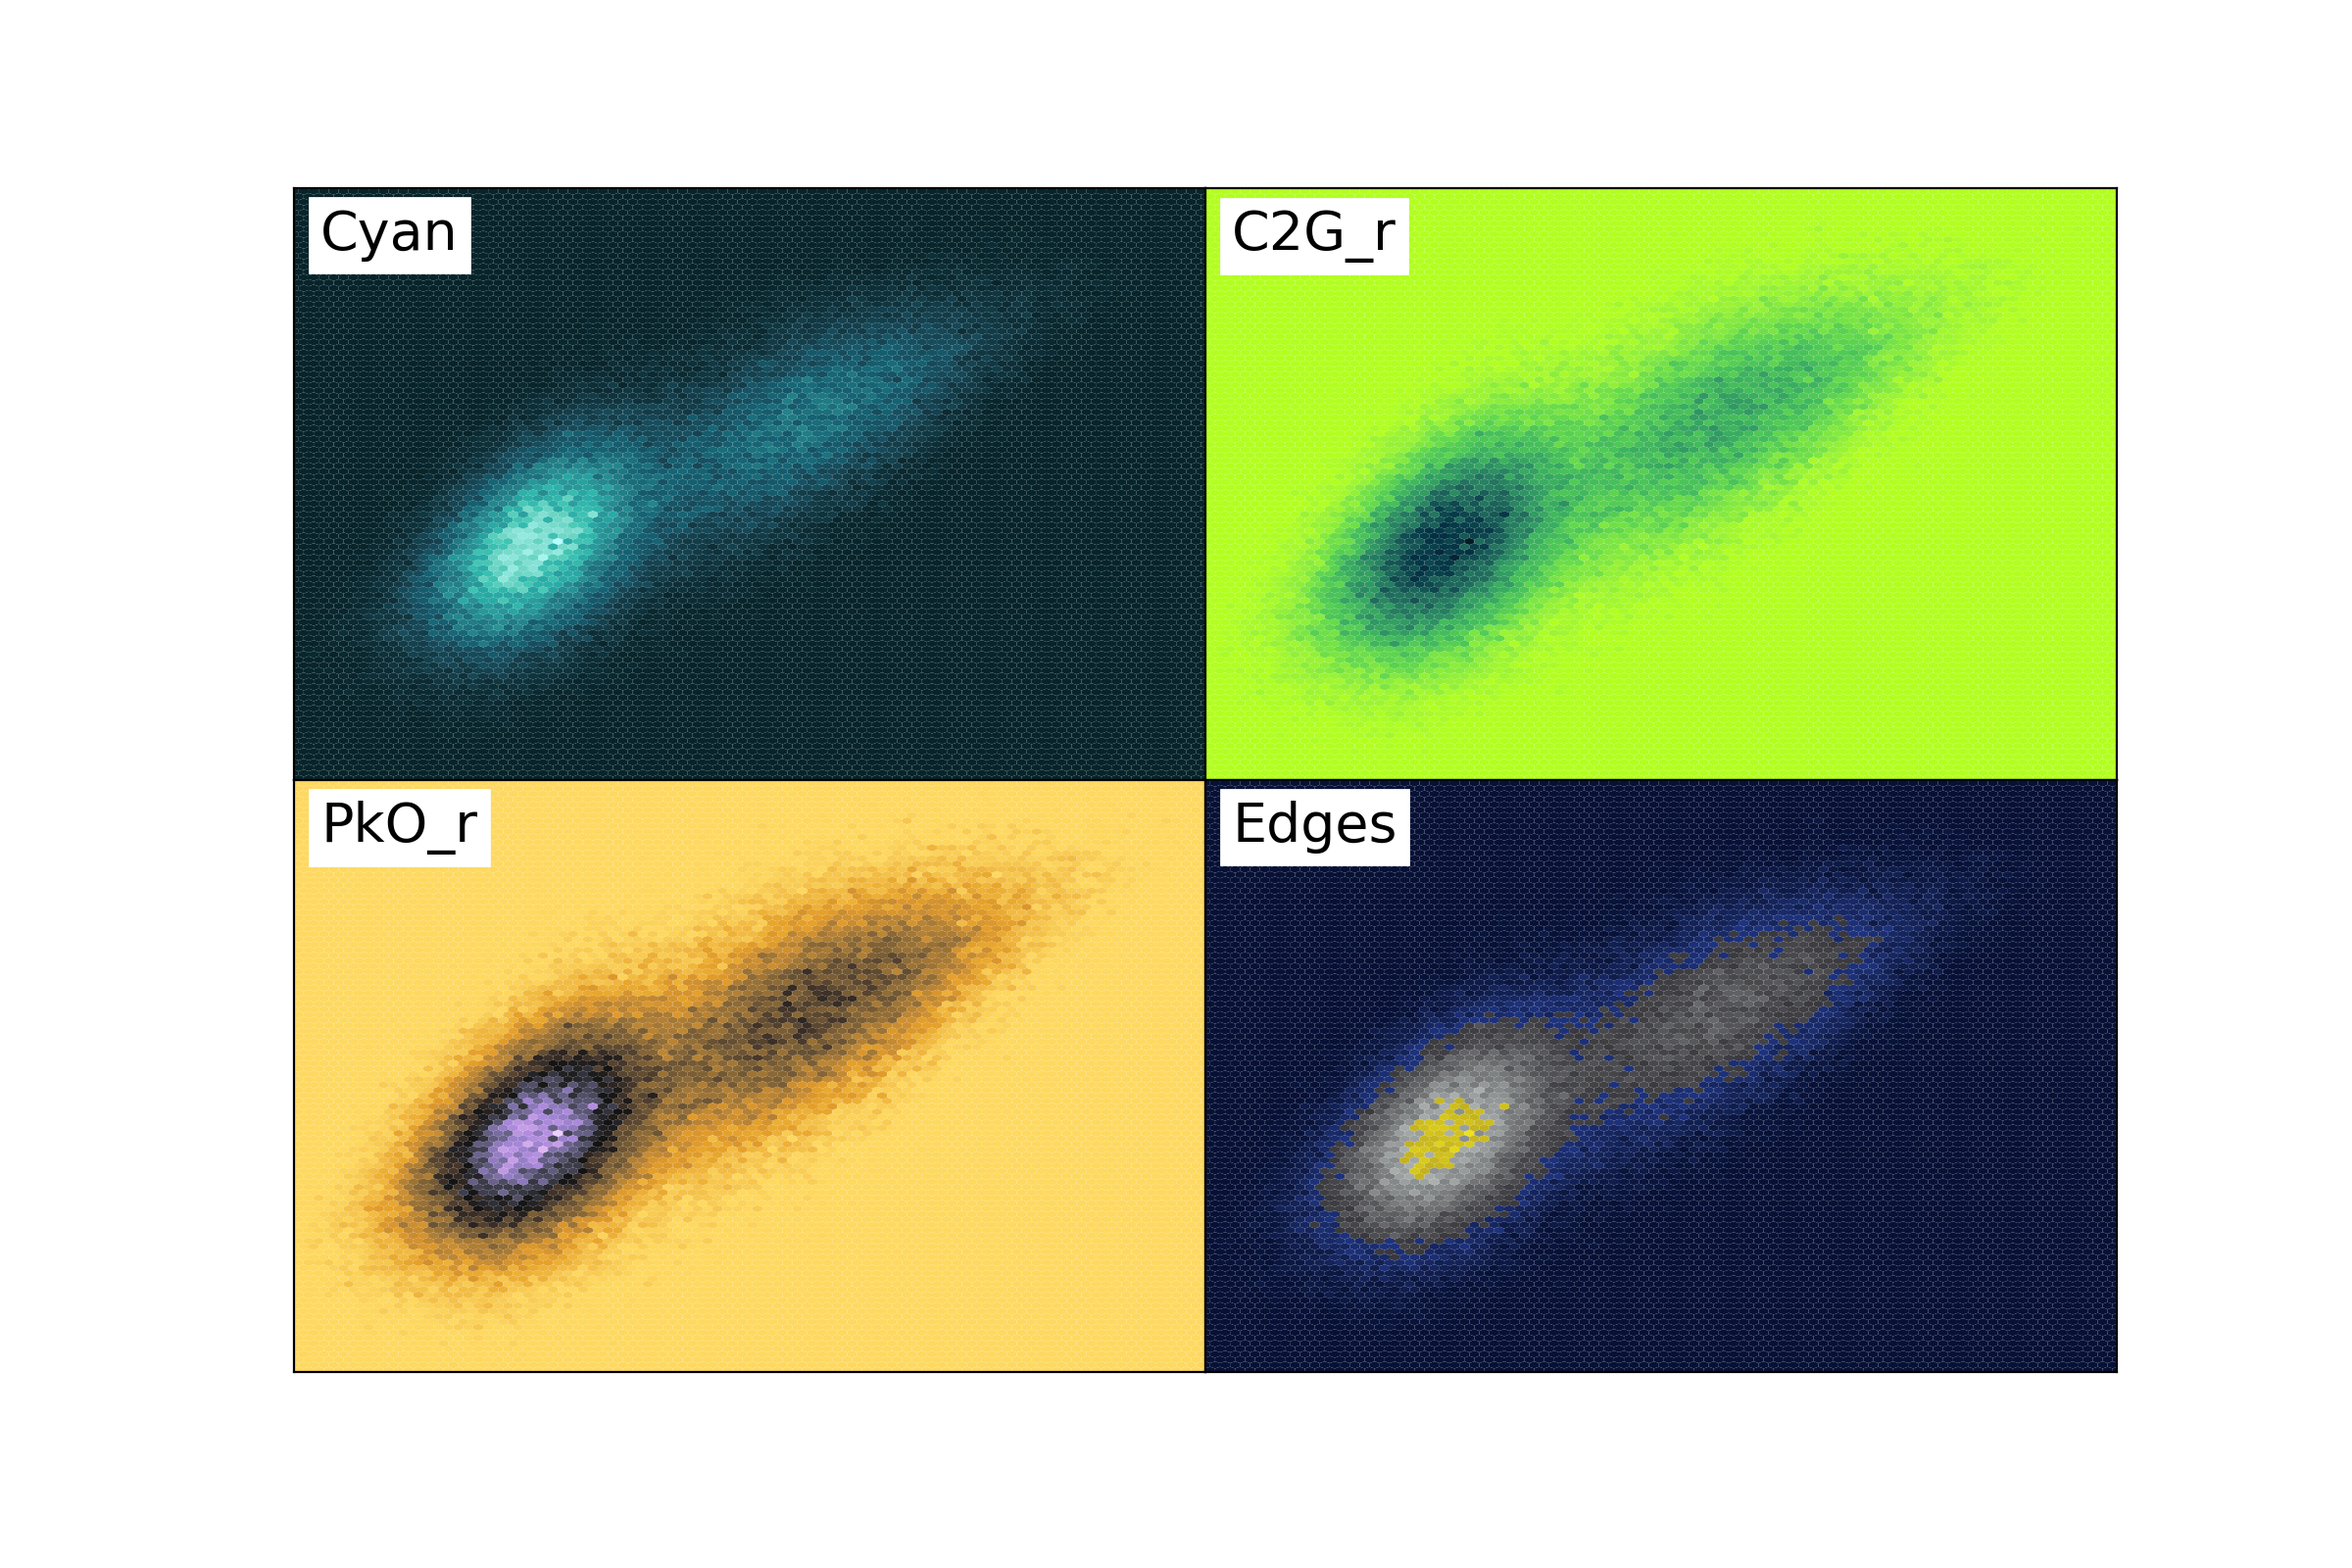
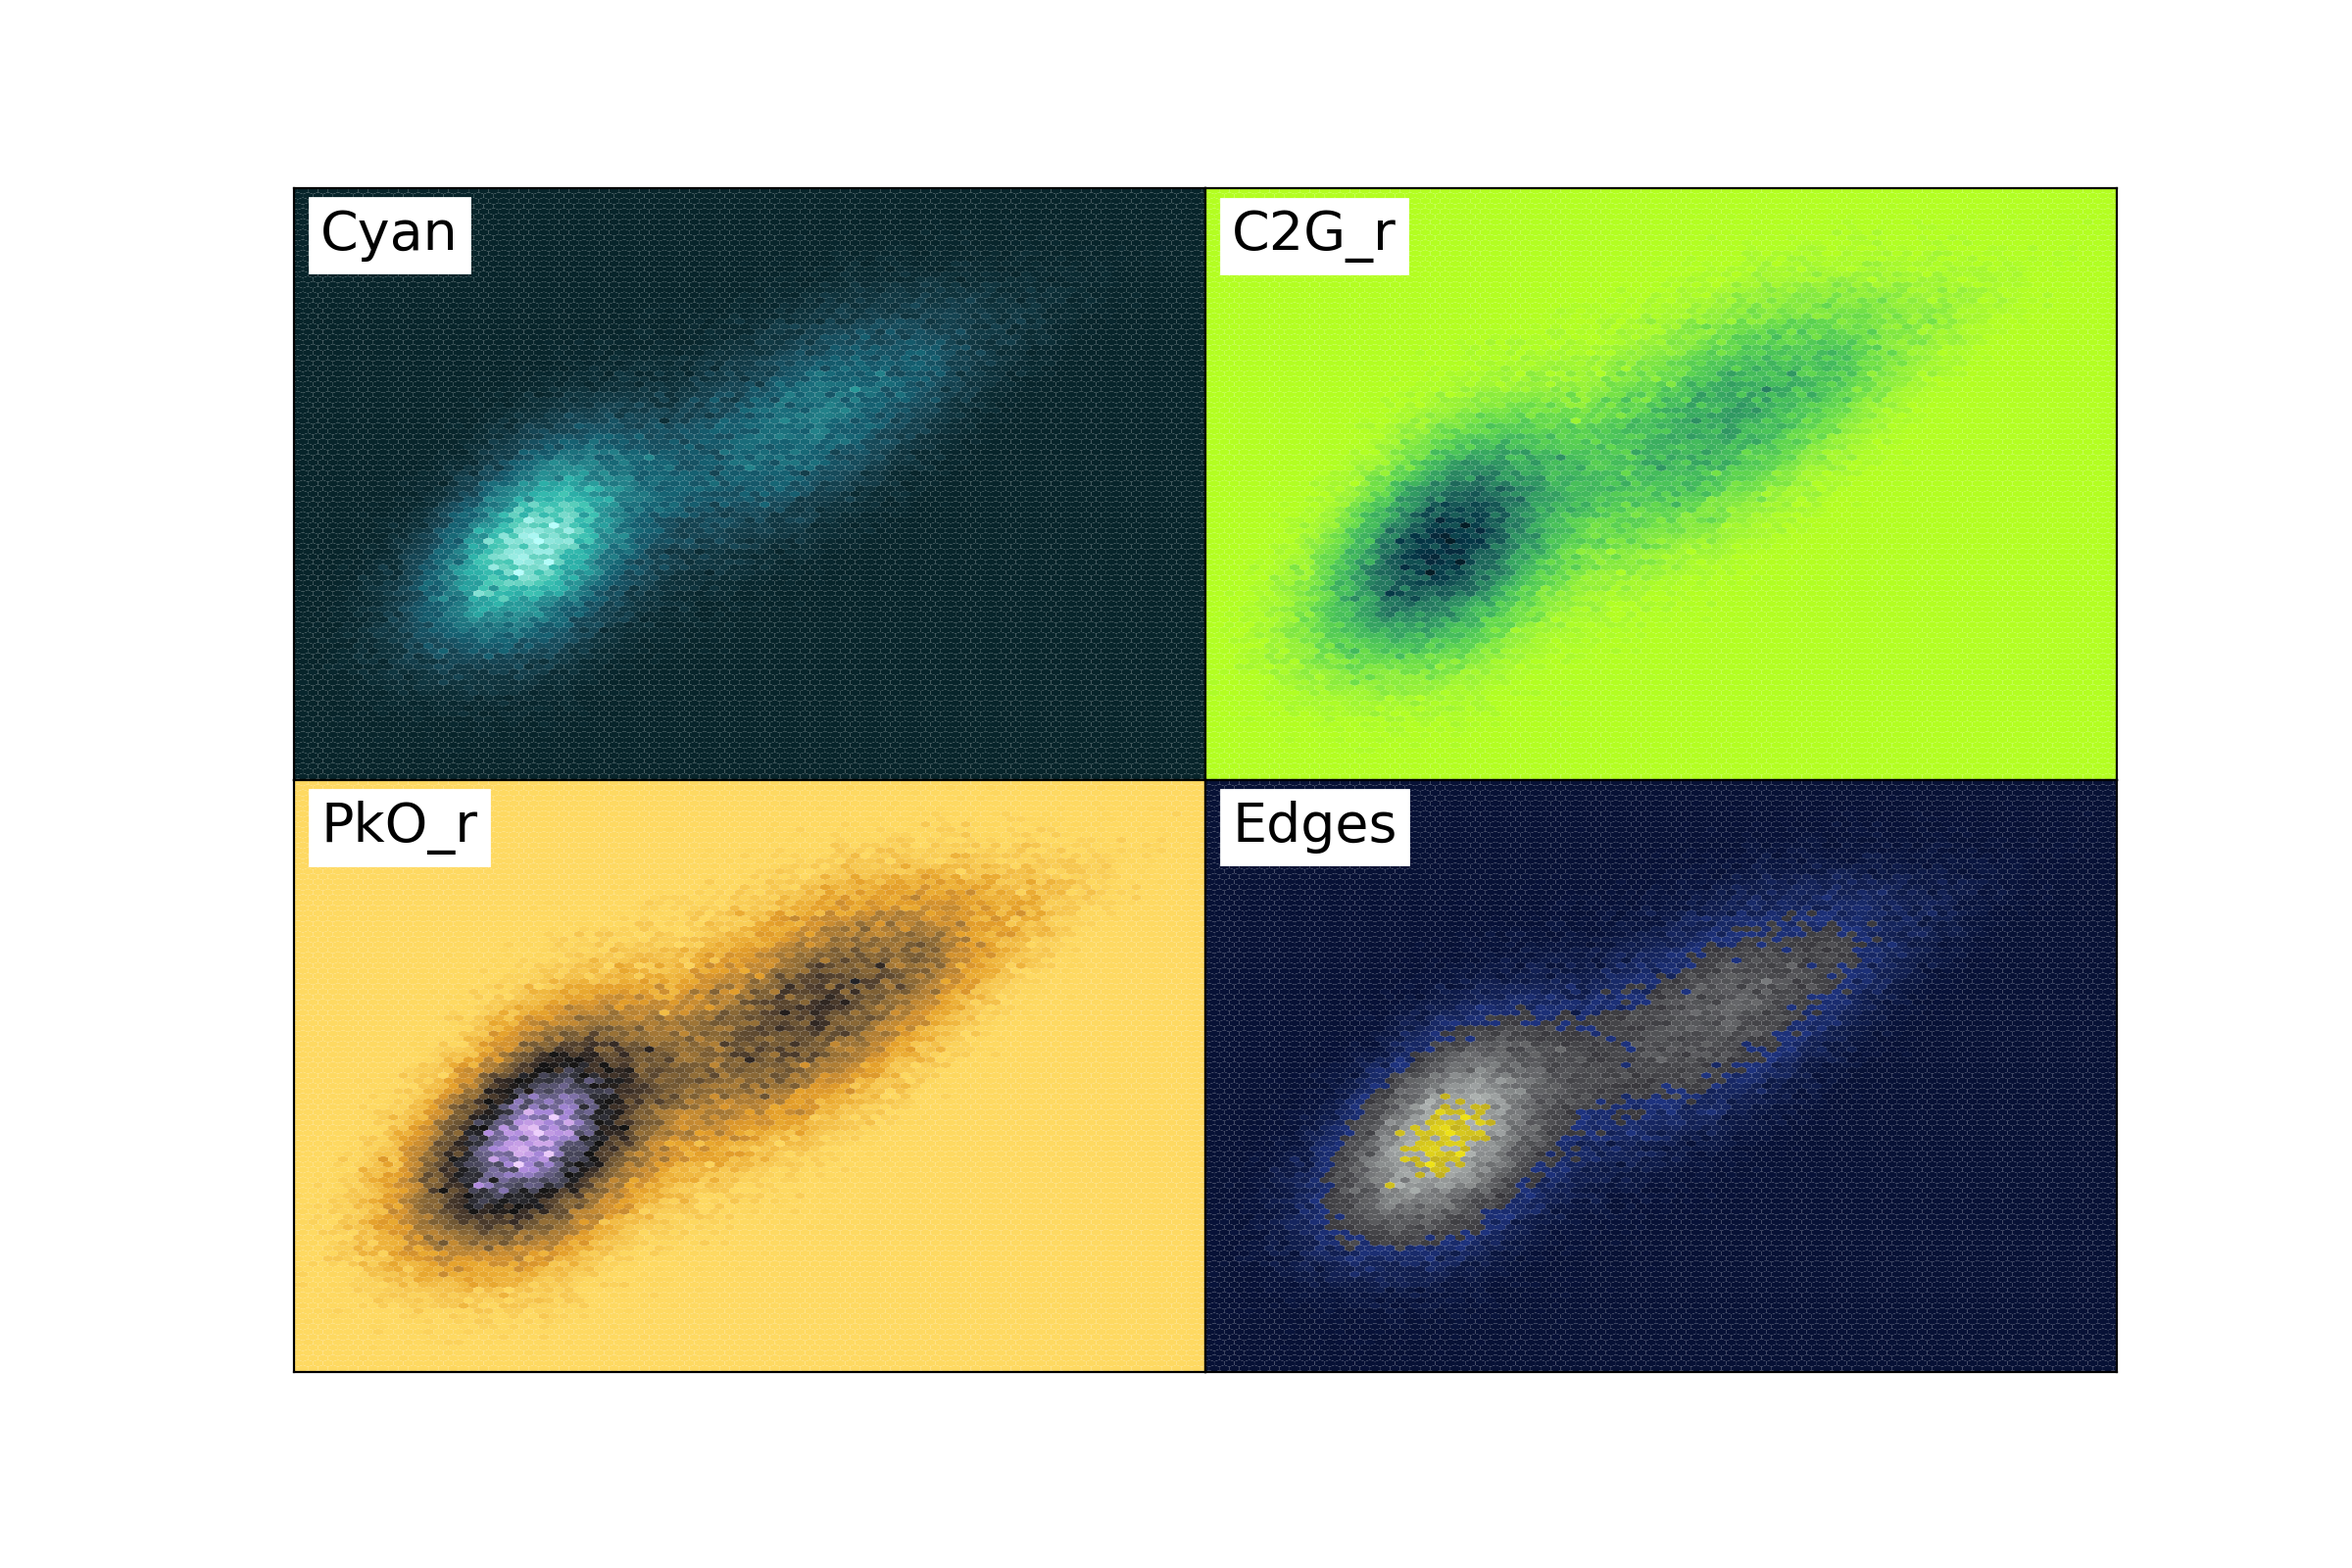
Simpler examples

Changed region(s): [[0.125, 0.125, 0.9062, 0.875]]

diff --git a/README.md b/README.md
@@ -86,15 +86,15 @@ z=np.concatenate([rng.uniform(-2,0,60000),rng.uniform(0,5,40000)],axis=0)
 # Colour map cropping
 shortBkR=scicm.tools.crop('scicm.BkR',vmin=0.3,vmax=1.0)
 
-fig,axes=plt.subplots(nrows=2,ncols=1,figsize=(12,8),gridspec_kw=dict(wspace=0.0,hspace=0.0),facecolor='w')
+fig,axes=plt.subplots(nrows=1,ncols=2,figsize=(12,4),gridspec_kw=dict(wspace=0.0,hspace=0.0),facecolor='w')
 h1=axes[0].hexbin(x,y,C=z,lw=0,cmap='scicm.BkR')
 h2=axes[1].hexbin(x,y,C=z,lw=0,cmap=shortBkR)
 
 for ax in axes.flatten():
     ax.set_xticks([])
     ax.set_yticks([])
-    ax.set_xlim([-3.5,4.5])
-    ax.set_ylim([-5.5,5.5])
+    ax.set_xlim([-2.8,4])
+    ax.set_ylim([-4.8,4.8])
 
 cbar0=fig.colorbar(h1,ax=axes[0])
 cbar0.set_label('mean value')
@@ -110,7 +110,7 @@ plt.show()
 Edges_P2M=scicm.tools.merge(['scicm.P2M','scicm.Stone','scicm.P2M'],[0.25,0.75],'custom.Edges_P2M')
 C2B2P=scicm.tools.stitch(['scicm.B2C_r','scicm.B2P'],np.array([[0,1],[0,1]]),[0.5],'custom.C2B2P')
 
-fig,axes=plt.subplots(nrows=2,ncols=1,figsize=(12,8),gridspec_kw=dict(wspace=0.0,hspace=0.1),facecolor='w')
+fig,axes=plt.subplots(nrows=1,ncols=2,figsize=(12,4),gridspec_kw=dict(wspace=0.0,hspace=0.0),facecolor='w')
 h1=axes[0].hexbin(x,y,cmap='custom.Edges_P2M')
 h2=axes[1].hexbin(x,y,cmap='custom.C2B2P')
 
@@ -120,9 +120,10 @@ for ax in axes.flatten():
     ax.set_xlim([-2.8,4])
     ax.set_ylim([-4.8,4.8])
 
-cbar0=fig.colorbar(h1,ax=axes[0])
-cbar1=fig.colorbar(h2,ax=axes[1])
+#cbar0=fig.colorbar(h1,ax=axes[0])
+#cbar1=fig.colorbar(h2,ax=axes[1])
 
+plt.tight_layout()
 plt.show()
 ```
 ![example3](/examples/README_ex3.png)
